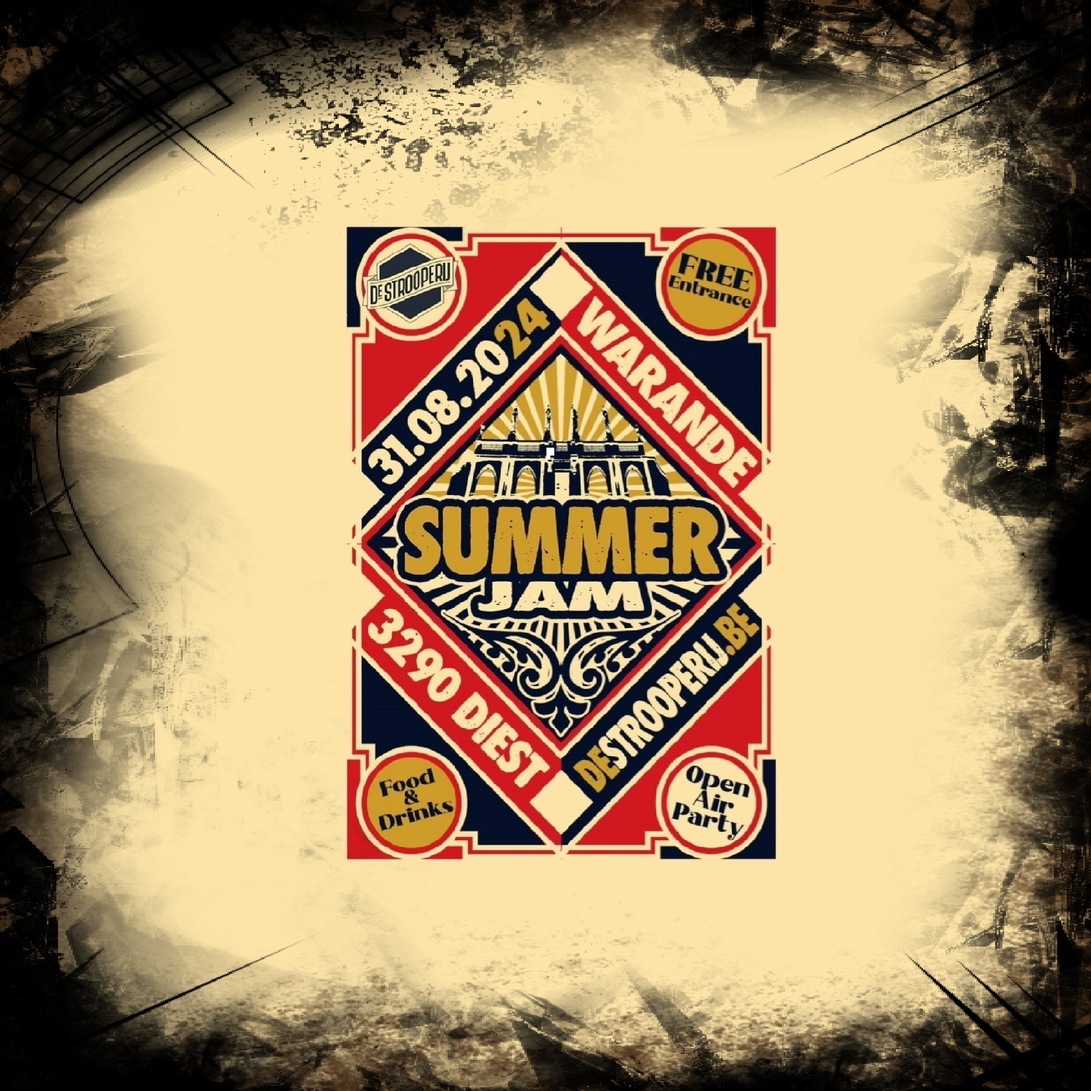
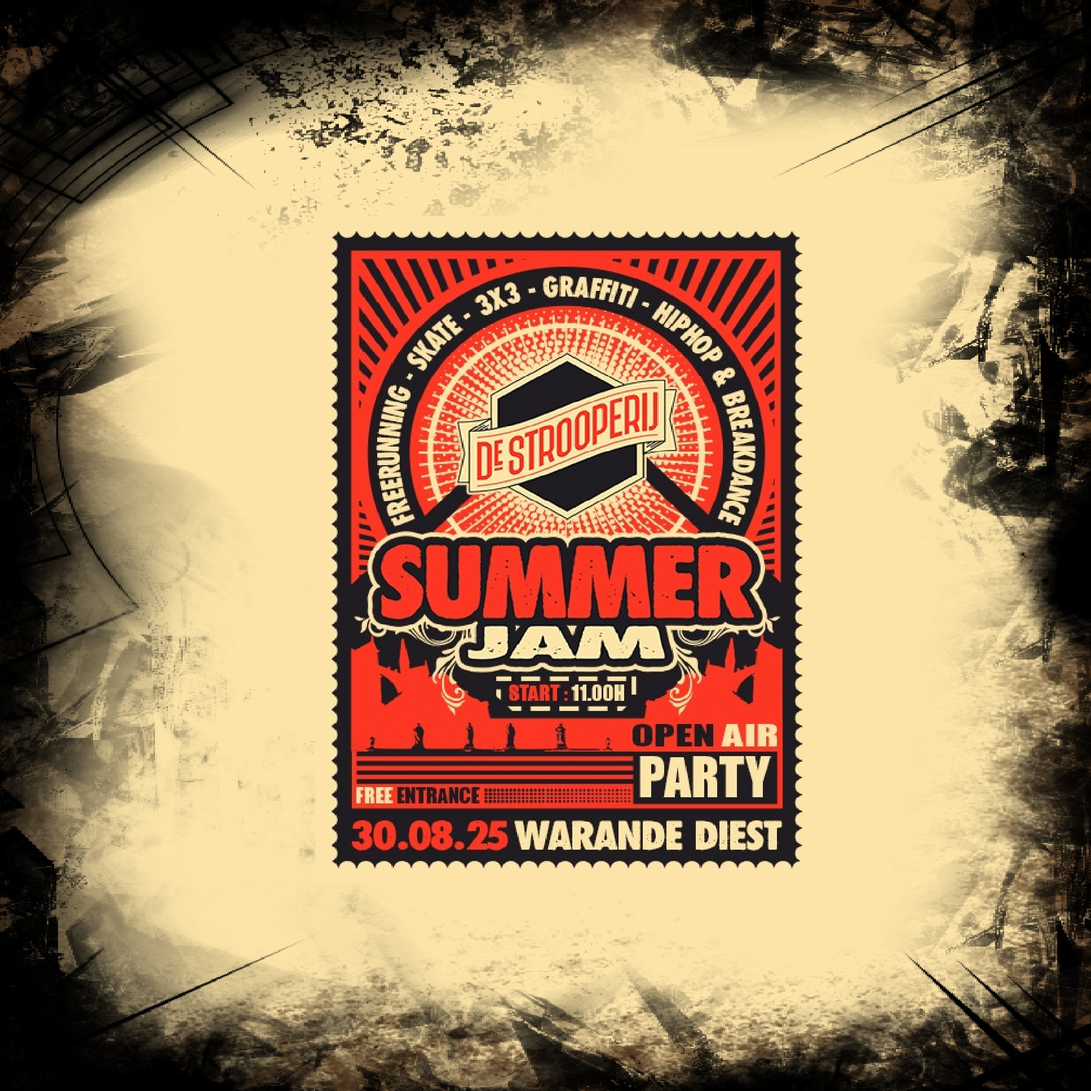
Update Event2 image, style, and translations

Changed region(s): [[0.2791, 0.186, 0.7442, 0.8062]]

diff --git a/app.js b/app.js
@@ -58,6 +58,7 @@ const translations = {
     welcome2: "bij de",
     welcome3: "De STrooperij",
     missionTitle: "Missie",
+    event2register3x3: "🏀 Inschrijven 3x3",
     missionIntro: "De STrooperij is een vriendengroep met elk hun eigen talenten. We organiseren unieke evenementen in onze geboortestad DieST, met als missie: mensen samenbrengen rond urban sports en cultuur. Sinds de eerste edities van Summer Jam (2002-2007) in het Warandepark, is de passie voor street culture altijd blijven leven. In 2018 bliezen we het concept nieuw leven in, en met groot succes, want in 2023 kregen we de Publieksprijs van de Cultuurraad van DieST. Het draait om creativiteit, sport, muziek, en verbinding – voor jong en oud.",
     sportTitle: "Sport",
     sportText: "Van skatecontest en 3x3 basketbal tot freerunning en street workouts – sport is een vaste waarde bij elk event van De STrooperij. Lokale verenigingen zoals de Diestse Sharks en skaters nemen het voortouw in de organisatie. Bewegen, samenwerken en samen genieten.",
@@ -100,6 +101,7 @@ const translations = {
   welcome2: "to the",
   welcome3: "De STrooperij",
   missionTitle: "Mission",
+  event2register3x3: "🏀 Register 3x3",
   missionIntro: "De STrooperij is a group of friends, each with their own talents. We organize unique events in our hometown DieST with one mission: bringing people together through urban sports and culture. Since the early editions of Summer Jam (2002–2007) in Warande Park, our passion for street culture has never faded. In 2018, we revived the concept with great success – in 2023 we won the Audience Award from DieST’s Culture Council. It's all about creativity, sports, music, and connection – for young and old.",
   sportTitle: "Sports",
   sportText: "From skate contests and 3x3 basketball to freerunning and street workouts – sports are a staple at every De STrooperij event. Local organizations like the Diest Sharks and skaters take the lead in planning. Movement, collaboration, and shared fun.",
@@ -142,6 +144,7 @@ const translations = {
   welcome2: "chez",
   welcome3: "De STrooperij",
   missionTitle: "Mission",
+  event2register3x3: "🏀 Inscription 3x3",
   missionIntro: "De STrooperij est un groupe d’amis, chacun avec ses propres talents. Nous organisons des événements uniques dans notre ville natale de DieST avec une mission : rassembler les gens autour des sports urbains et de la culture. Depuis les premières éditions de Summer Jam (2002–2007) au parc Warande, notre passion pour la culture urbaine n’a jamais cessé. En 2018, nous avons relancé le concept avec grand succès – en 2023, nous avons reçu le Prix du Public du Conseil de la Culture de DieST. Il s'agit de créativité, de sport, de musique et de connexion – pour les jeunes et les moins jeunes.",
   sportTitle: "Sport",
   sportText: "Des concours de skate et du basket 3x3 au freerun et aux entraînements de rue – le sport est une valeur sûre lors de chaque événement de De STrooperij. Des associations locales comme les Diest Sharks et des skateurs prennent les devants dans l’organisation. Bouger, collaborer et profiter ensemble.",

diff --git a/style.css b/style.css
@@ -430,6 +430,30 @@ li.lang-switch .lang-btn {
 #events .event-item:hover .event-img img {
 	transform: scale(1.1);
 }
+.event-info p[data-i18n="event2register3x3"] {
+  display: inline-block;
+  background-color: #003366;  /* dark blue */
+  color: white;
+  padding: 6px 12px;
+  border-radius: 12px;
+  font-weight: bold;
+  font-size: 0.9rem;
+  margin-top: 10px;
+  text-decoration: none;
+  box-shadow: 0 4px 6px rgba(0, 0, 0, 0.3);
+  cursor: pointer;
+  transition: background-color 0.3s ease, box-shadow 0.3s ease;
+}
+
+.event-info p[data-i18n="event2register3x3"] a {
+  color: white;
+  text-decoration: none;
+}
+
+.event-info p[data-i18n="event2register3x3"]:hover {
+  background-color: #00509e;  /* lighter blue on hover */
+  box-shadow: 0 6px 10px rgba(0, 0, 0, 0.4);
+}
 	/* Video icon styling */
 	.video-icon {
   		position: absolute;

diff --git a/index.html b/index.html
@@ -94,6 +94,8 @@
               <h1 data-i18n="event2Title">Summer Jam</h1>
               <h2 data-i18n="event2Date">augustus 2025</h2>
               <p data-i18n="event2Text">Terug in het Warandepark – de thuisbasis – brengt Summer Jam opnieuw een dag vol urban sports en muziek. Verwacht een skatecontest, graffiti-jam, 3on3 basketbal, breakdance, freerunning en kinderanimatie. ’s Avonds sluiten we af met een spectaculaire liveshow in het amfitheater.</p>
+              <p data-i18n="event2register3x3">🏀 
+                <a href="https://docs.google.com/forms/d/1O1DdXjgxXEg_grh-ob-nJxmgEQskq4gDfwxGEtAzj1U/viewform" target="_blank" data-i18n="event2register3x3">Inschrijven 3x3</a></p>
             </div>
             <div class="event-img">
               <img src="./img/Event2.jpg" alt="img" /><img 
